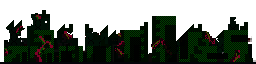
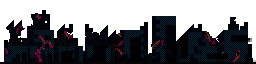
checkpoint

diff --git a/OLD/server/src/level/level_type_a.ts b/OLD/server/src/level/level_type_a.ts
@@ -61,7 +61,7 @@ export interface LevelKonfig {
     Ehm?: LevelEnemyKonfig,
     BG_COLOR: RGBA,
     people_cluster_count: number,
-    near_kind: Gr.GroundNearKind,
+    ground_kind: Gr.GroundKind,
 };
 
 interface FarSpec0 {
@@ -92,9 +92,9 @@ export abstract class AbstractLevelTypeA extends Lv.AbstractLevel {
 	D.log(`new level_type_a for index1 ${index1}!`);
 	this.state = Gs.StepperState.running;
         this.reminder_cycle = HCycle.newFromRed(90 / K.FRAME_MSEC_DT);
-	const far_spec0 = this.far_spec0_mk();
+	const far_spec0 = this.far_spec0_mk(konfig.ground_kind);
 	this.db = this.db_mk(far_spec0, score, konfig.player_kind);
-	this.init_bg(far_spec0, konfig.near_kind);
+	this.init_bg(far_spec0, konfig.ground_kind);
 	this.init_player(konfig.player_kind);
 	this.init_enemies();
 
@@ -153,13 +153,13 @@ export abstract class AbstractLevelTypeA extends Lv.AbstractLevel {
 	);
     }
 
-    private init_bg(far_spec0: FarSpec0[], near_kind: Gr.GroundNearKind) {
+    private init_bg(far_spec0: FarSpec0[], ground_kind: Gr.GroundKind) {
 	Sk.sky_mk(this.db);
 	const far_spec_images: Gr.FarSpec[] = far_spec0.map((e: FarSpec0): Gr.FarSpec => ({
 	    ...e,
 	    images_spec: { resource_id: this.db.uncloned.images.lookup(e.resource_name) }
 	}));
-	Gr.bg_mk(this.db, far_spec_images, near_kind);
+	Gr.bg_mk(this.db, far_spec_images, ground_kind);
 	Gr.ground_mk(this.db, far_spec_images);
 	B.base_add(this.db);
 	Po.populate(
@@ -168,7 +168,8 @@ export abstract class AbstractLevelTypeA extends Lv.AbstractLevel {
 	);
     }
 
-    far_spec0_mk(): FarSpec0[] {
+    far_spec0_mk(ground_kind: Gr.GroundKind): FarSpec0[] {
+	const cbm = ground_kind === Gr.GroundKind.cbm ? "cbm_" : "";
 	// todo: extract out the x calculations,
 	// make something more interesting,
 	// make it so the world can fit more far's
@@ -176,22 +177,22 @@ export abstract class AbstractLevelTypeA extends Lv.AbstractLevel {
 	const alpha = 0.2;
 	const far_spec0 = [
 	    {
-		resource_name: "bg/mal_far.png",
+		resource_name: `bg/mal_${cbm}far.png`,
 		type: Gr.BgFarType.mountain,
 		alpha: alpha
 	    },
 	    {
-		resource_name: "bg/ma_far.png",
+		resource_name: `bg/ma_${cbm}far.png`,
 		type: Gr.BgFarType.mountain,
 		alpha: alpha
 	    },
 	    {
-		resource_name: "bg/ma_far.png",
+		resource_name: `bg/ma_${cbm}far.png`,
 		type: Gr.BgFarType.mountain,
 		alpha: alpha
 	    },
 	    {
-		resource_name: "bg/mar_far.png",
+		resource_name: `bg/mar_${cbm}far.png`,
 		type: Gr.BgFarType.mountain,
 		alpha: alpha
 	    },

diff --git a/OLD/server/src/ground.ts b/OLD/server/src/ground.ts
@@ -8,7 +8,7 @@ import * as U from './util/util';
 import * as D from './debug';
 import * as _ from 'lodash';
 
-export enum GroundNearKind {
+export enum GroundKind {
     regular,
     cbm,
 }
@@ -129,7 +129,7 @@ function far2far_specs(db: GDB.GameDB, far_specs: FarSpec[]): FarSpec[] {
     return specs;
 }
 
-function far2near_specs(db: GDB.GameDB, far_specs: FarSpec[], near_kind: GroundNearKind): NearSpec[] {
+function far2near_specs(db: GDB.GameDB, far_specs: FarSpec[], ground_kind: GroundKind): NearSpec[] {
     const images = db.uncloned.images;
     const sea: UnlocatedSpec<BgNearType> = {
         images_spec: {resource_id: K.EMPTY_IMAGE_RESOURCE_ID},
@@ -137,12 +137,12 @@ function far2near_specs(db: GDB.GameDB, far_specs: FarSpec[], near_kind: GroundN
         alpha: 1
     };
     const city_image = (() => {
-	switch (near_kind) {
-	case GroundNearKind.regular: {
+	switch (ground_kind) {
+	case GroundKind.regular: {
 	    const city_images = [images.lookup("bg/ma_near.png"), images.lookup("bg/ma_near2.png"), images.lookup("bg/ma_near3.png")];
 	    return city_images[(db.shared.level_index1-1) % 3];
 	}
-	case GroundNearKind.cbm: {
+	case GroundKind.cbm: {
 	    return images.lookup("bg/ma_near_cbm.png")
 	}
 	}
@@ -301,7 +301,7 @@ function add_ground_tiles(db: GDB.GameDB, far_specs: FarSpec[]) {
     });
 }
 
-export function bg_mk(db: GDB.GameDB, far_specs: FarSpec[], near_kind: GroundNearKind) {
+export function bg_mk(db: GDB.GameDB, far_specs: FarSpec[], ground_kind: GroundKind) {
     // setting the two background layers down by some arbitrary amount
     // so they layer nicely behind the real ground tiles that
     // have a little transparency at their top since they aren't
@@ -323,7 +323,7 @@ export function bg_mk(db: GDB.GameDB, far_specs: FarSpec[], near_kind: GroundNea
         K.BG_NEAR_BG_SIZE,
         ground2near_scale,
         "bg-n",
-        far2near_specs(db, far_specs, near_kind)
+        far2near_specs(db, far_specs, ground_kind)
     );
 }
 

diff --git a/OLD/server/src/level/cbm/enemy_hypermega1.ts b/OLD/server/src/level/cbm/enemy_hypermega1.ts
@@ -12,8 +12,8 @@ import * as Lemk from '../enemy_mk';
 import * as K from '../../konfig';
 
 // match: sprite animation.
-const SIZE = K.vd2si(G.v2d_mk(80, 80));
-const WARPIN_RESOURCE_ID = "enemies/e10hm/e10_hm1.png";
+const SIZE = K.vd2si(G.v2d_scale_i(G.v2d_mk(90, 90), 1));
+const WARPIN_RESOURCE_ID = "enemies/cbm4/cbm41.png";
 const Hypermega: Lemk.EnemyMk = {
     SIZE,
     WARPIN_RESOURCE_ID,
@@ -75,7 +75,7 @@ function t2a_facing_mk(db: GDB.GameDB, thrusting: boolean, facing: F.Facing): A.
                 {
                     frame_msec: 120,
                     resource_ids: [
-                        ...images.lookup_range_n(n => `enemies/e10hm/e10_hm${n}.png`, 1, 5)
+                        ...images.lookup_range_n(n => `enemies/cbm4/cbm4${n}.png`, 1, 2)
                     ],
                     starting_mode: A.MultiImageStartingMode.hold,
                     ending_mode: A.MultiImageEndingMode.loop

diff --git a/OLD/server/src/game.ts b/OLD/server/src/game.ts
@@ -65,10 +65,10 @@ interface GamePrivate extends Game {
 type LevelMk = (level_index: number, score: number, high_score: Hs.HighScore) => Lis.LevelInScreens;
 // match: konfig.ts
 const level_mks: LevelMk[] = [
-    (i: number, score: number, hi: Hs.HighScore) => Lcbm.level_mk(i, score, hi),
     (i: number, score: number, hi: Hs.HighScore) => L1.level_mk(i, score, hi),
     (i: number, score: number, hi: Hs.HighScore) => L2.level_mk(i, score, hi),
     (i: number, score: number, hi: Hs.HighScore) => L3.level_mk(i, score, hi),
+    (i: number, score: number, hi: Hs.HighScore) => Lcbm.level_mk(i, score, hi),
     (i: number, score: number, hi: Hs.HighScore) => L4.level_mk(i, score, hi),
     (i: number, score: number, hi: Hs.HighScore) => L5.level_mk(i, score, hi),
     (i: number, score: number, hi: Hs.HighScore) => L6.level_mk(i, score, hi),

diff --git a/src/onering.ts b/src/onering.ts
@@ -1397,7 +1397,9 @@ function loadImages() {
     loadImage(`enemies/cbm3/cbm31.png`);
     loadImage(`enemies/cbm3/cbm32.png`);
     loadImage(`enemies/cbm3/cbm33.png`);
-
+    loadImage(`enemies/cbm4/cbm41.png`);
+    loadImage(`enemies/cbm4/cbm42.png`);
+    
     [...Array(10).keys()].forEach(i => {
 	loadImage(`gem/gem${i+1}.png`)
     });
@@ -1452,6 +1454,9 @@ function loadImages() {
     loadImage("bg/ma_far.png");
     loadImage("bg/mal_far.png");
     loadImage("bg/mar_far.png");
+    loadImage("bg/ma_cbm_far.png");
+    loadImage("bg/mal_cbm_far.png");
+    loadImage("bg/mar_cbm_far.png");
     loadImage("bg/ma_near.png");
     loadImage("bg/ma_near2.png");
     loadImage("bg/ma_near3.png");

diff --git a/OLD/client/src/client.ts b/OLD/client/src/client.ts
@@ -1436,6 +1436,8 @@ function loadImages() {
     loadImage(`enemies/cbm3/cbm31.png`);
     loadImage(`enemies/cbm3/cbm32.png`);
     loadImage(`enemies/cbm3/cbm33.png`);
+    loadImage(`enemies/cbm4/cbm41.png`);
+    loadImage(`enemies/cbm4/cbm42.png`);
 
     [...Array(10).keys()].forEach(i => {
 	loadImage(`gem/gem${i+1}.png`)
@@ -1491,6 +1493,9 @@ function loadImages() {
     loadImage("bg/ma_far.png");
     loadImage("bg/mal_far.png");
     loadImage("bg/mar_far.png");
+    loadImage("bg/ma_cbm_far.png");
+    loadImage("bg/mal_cbm_far.png");
+    loadImage("bg/mar_cbm_far.png");
     loadImage("bg/ma_near.png");
     loadImage("bg/ma_near2.png");
     loadImage("bg/ma_near3.png");

diff --git a/OLD/server/src/level/level6/level6.ts b/OLD/server/src/level/level6/level6.ts
@@ -20,7 +20,7 @@ const LKfn = (level_index: number): Lta.LevelKonfig => {
     const buf = Math.floor(level_index / denom);
     return {
 	player_kind: S.PlayerKind.cow,
-	near_kind: Gr.GroundNearKind.regular,
+	ground_kind: Gr.GroundKind.regular,
 	Eb3: { mk: Eb3.warpin_mk, count: 4 + buf, limit: 2 + buf, delay_msec: 1000, tick_msec: 10*1000 },
 	Eb6: { mk: Eb6.warpin_mk, count: 4 + buf, limit: 2 + buf, delay_msec: 1000, tick_msec: 7*1000 },
 	Eb8: { mk: Eb8.warpin_mk, count: 4 + buf, limit: 4 + buf, delay_msec: 1000, tick_msec: 5*1000 },

diff --git a/OLD/server/src/level/level3/level3.ts b/OLD/server/src/level/level3/level3.ts
@@ -19,7 +19,7 @@ const LKfn = (level_index: number): Lta.LevelKonfig => {
     const buf = Math.floor(level_index / denom);
     return {
 	player_kind: S.PlayerKind.cow,
-	near_kind: Gr.GroundNearKind.regular,
+	ground_kind: Gr.GroundKind.regular,
 	Eb3: { mk: Eb3.warpin_mk, count: 3 + buf, limit: 2 + buf, delay_msec: 1000, tick_msec: 10*1000 },
 	Eb7: { mk: Eb7.warpin_mk, count: 3 + buf, limit: 2 + buf, delay_msec: 1000, tick_msec: 5*1000 },
 	Ep: { mk: Ep.warpin_mk, count: 2 + buf, limit: 2 + buf, delay_msec: 1000, tick_msec: 3*1000 },

diff --git a/OLD/server/src/level/level4/level4.ts b/OLD/server/src/level/level4/level4.ts
@@ -19,7 +19,7 @@ const LKfn = (level_index: number): Lta.LevelKonfig => {
     const buf = Math.floor(level_index / denom);
     return {
 	player_kind: S.PlayerKind.cow,
-	near_kind: Gr.GroundNearKind.regular,
+	ground_kind: Gr.GroundKind.regular,
 	Eb4: { mk: Eb4.warpin_mk, count: 3 + buf, limit: 1 + buf, delay_msec: 1000, tick_msec: 10*1000 },
 	Eb5: { mk: Eb5.warpin_mk, count: 3 + buf, limit: 1 + buf, delay_msec: 1000, tick_msec: 5*1000 },
 	Ep: { mk: Ep.warpin_mk, count: 3 + buf, limit: 3 + buf, delay_msec: 1000, tick_msec: 3*1000 },

diff --git a/OLD/server/src/level/level7/level7.ts b/OLD/server/src/level/level7/level7.ts
@@ -18,7 +18,7 @@ const LKfn = (level_index: number): Lta.LevelKonfig => {
     const buf = Math.floor(level_index / denom);
     return {
 	player_kind: S.PlayerKind.ship,
-	near_kind: Gr.GroundNearKind.regular,
+	ground_kind: Gr.GroundKind.regular,
 	Eb6: { mk: Eb6.warpin_mk, count: 8 + buf, limit: 6 + buf, delay_msec: 1000, tick_msec: 5*1000 },
 	Ep: { mk: Ep.warpin_mk, count: 4 + buf, limit: 4 + buf, delay_msec: 1000, tick_msec: 3*1000 },
 	Es: { mk: Es.warpin_mk, count: 4 + buf, limit: 2 + buf, delay_msec: 1000, tick_msec: 3*1000 },

diff --git a/OLD/server/src/level/level1/level1.ts b/OLD/server/src/level/level1/level1.ts
@@ -17,7 +17,7 @@ const LKfn = (level_index: number): Lta.LevelKonfig => {
     const buf = Math.floor(level_index / denom);
     return {
 	player_kind: S.PlayerKind.cow,
-	near_kind: Gr.GroundNearKind.regular,
+	ground_kind: Gr.GroundKind.regular,
 	Eb1: { mk: Eb1.warpin_mk, count: 5 + buf, limit: 2 + buf, delay_msec: 1000, tick_msec: 5*1000 },
 	Es: { mk: Es.warpin_mk, count: 4 + buf, limit: 1 + buf, delay_msec: 1000, tick_msec: 3*1000 },
 	Em: { mk: Em.warpin_mk, count: 2 + buf, limit: 1 + buf, delay_msec: 1000, tick_msec: 3*1000 },

diff --git a/OLD/server/src/level/level2/level2.ts b/OLD/server/src/level/level2/level2.ts
@@ -17,7 +17,7 @@ const LKfn = (level_index: number): Lta.LevelKonfig => {
     const buf = Math.floor(level_index / denom);
     return {
 	player_kind: S.PlayerKind.cow,
-	near_kind: Gr.GroundNearKind.regular,
+	ground_kind: Gr.GroundKind.regular,
 	Eb2: { mk: Eb2.warpin_mk, count: 5 + buf, limit: 3 + buf, delay_msec: 1000, tick_msec: 5*1000 },
 	Es: { mk: Es.warpin_mk, count: 4 + buf, limit: 1 + buf, delay_msec: 1000, tick_msec: 3*1000 },
 	Em: { mk: Em.warpin_mk, count: 2 + buf, limit: 1 + buf, delay_msec: 1000, tick_msec: 3*1000 },
